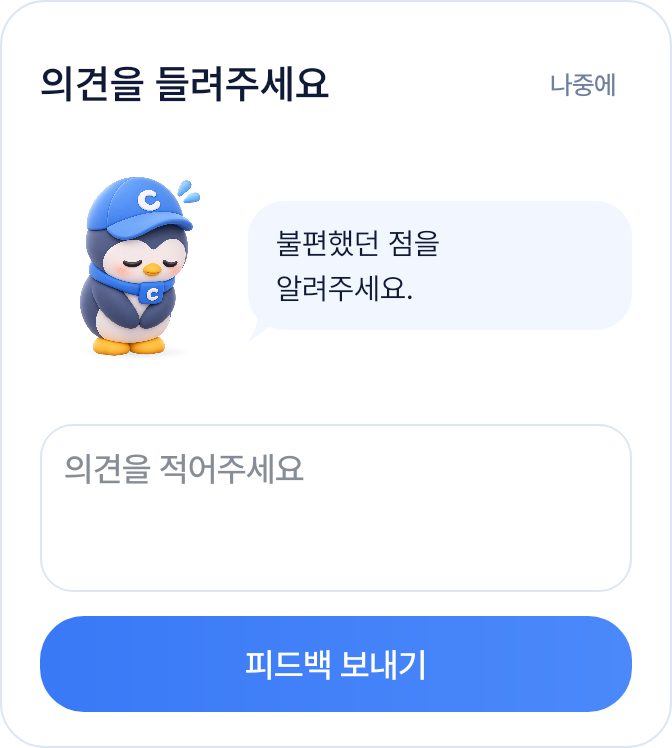
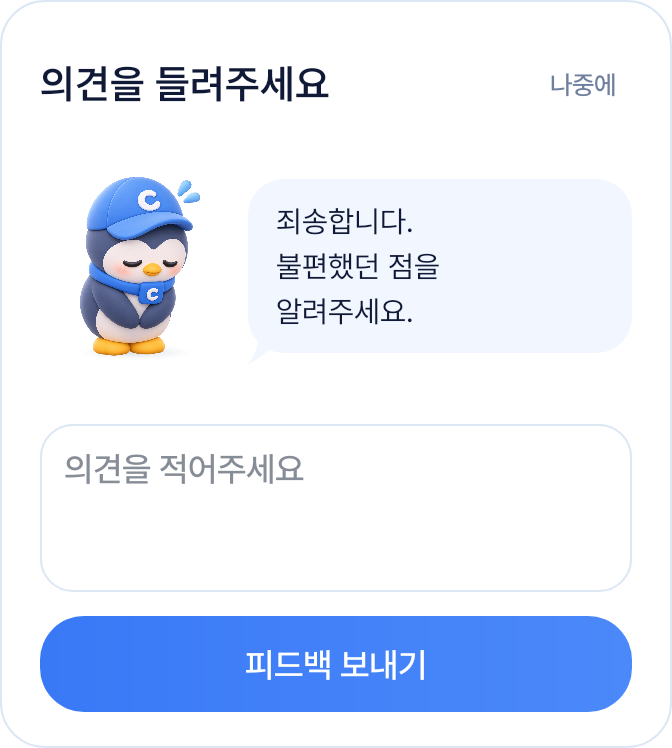
fix(android): restore apology in negative feedback bubble

Changed region(s): [[0.4062, 0.2767, 0.6562, 0.4305]]

diff --git a/Frontend/app/src/main/java/com/click/ui/overlay/FeedbackOverlayView.java b/Frontend/app/src/main/java/com/click/ui/overlay/FeedbackOverlayView.java
@@ -28,7 +28,7 @@ public final class FeedbackOverlayView extends ScrollView {
     public FeedbackOverlayView(Context context, boolean positive, String message, String draft, Listener listener) {
         super(context);
         this.listener = listener;
-        guidanceMessage = positive ? message : "불편했던 점을\n알려주세요.";
+        guidanceMessage = positive ? message : "죄송합니다.\n불편했던 점을\n알려주세요.";
         setFillViewport(false);
         setBackground(ClickUi.outlined(0xFFFFFFFF, ClickUi.BORDER, dp(22), dp(1)));
         setElevation(dp(12));
